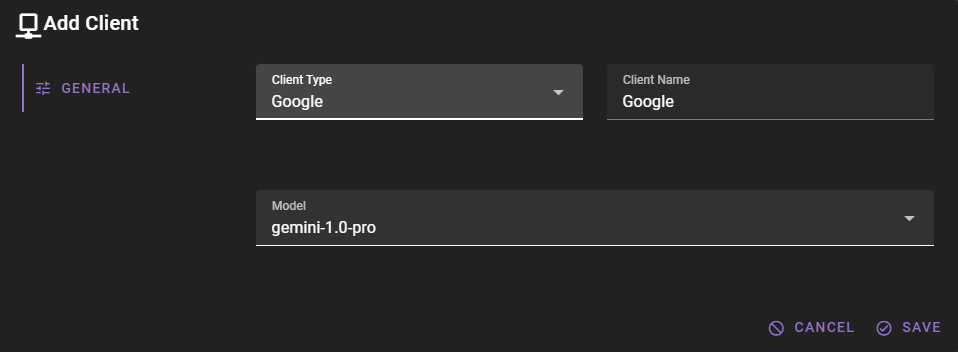
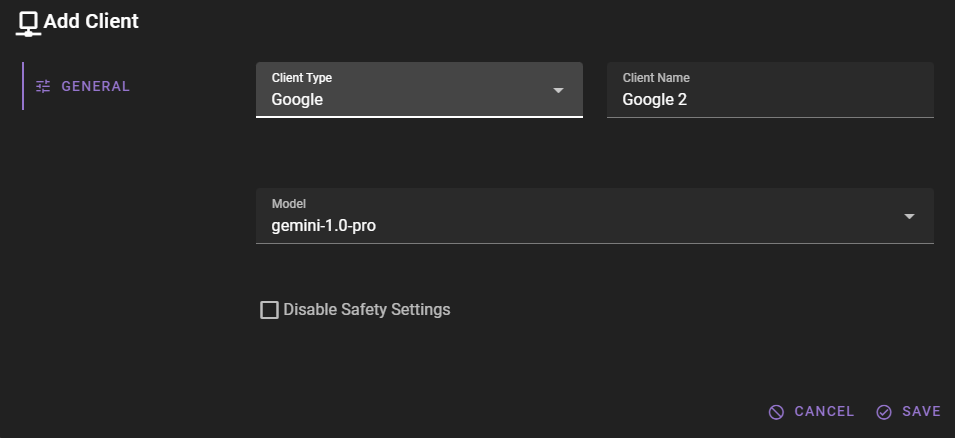
docs

diff --git a/README.md b/README.md
@@ -214,6 +214,8 @@ Once you have downloaded the credentials you can either note where they are on y
 
 ![Google Gemini](docs/img/0.25.0/google-add-client.png)
 
+The `Disable Safety Settings` option will turn off the google reponse validation for what they consider harmful content. Use at your own risk.
+
 ### Conmplete the google cloud setup in talemate
 
 ![Google Gemini](docs/img/0.25.0/google-setup-incomplete.png)
